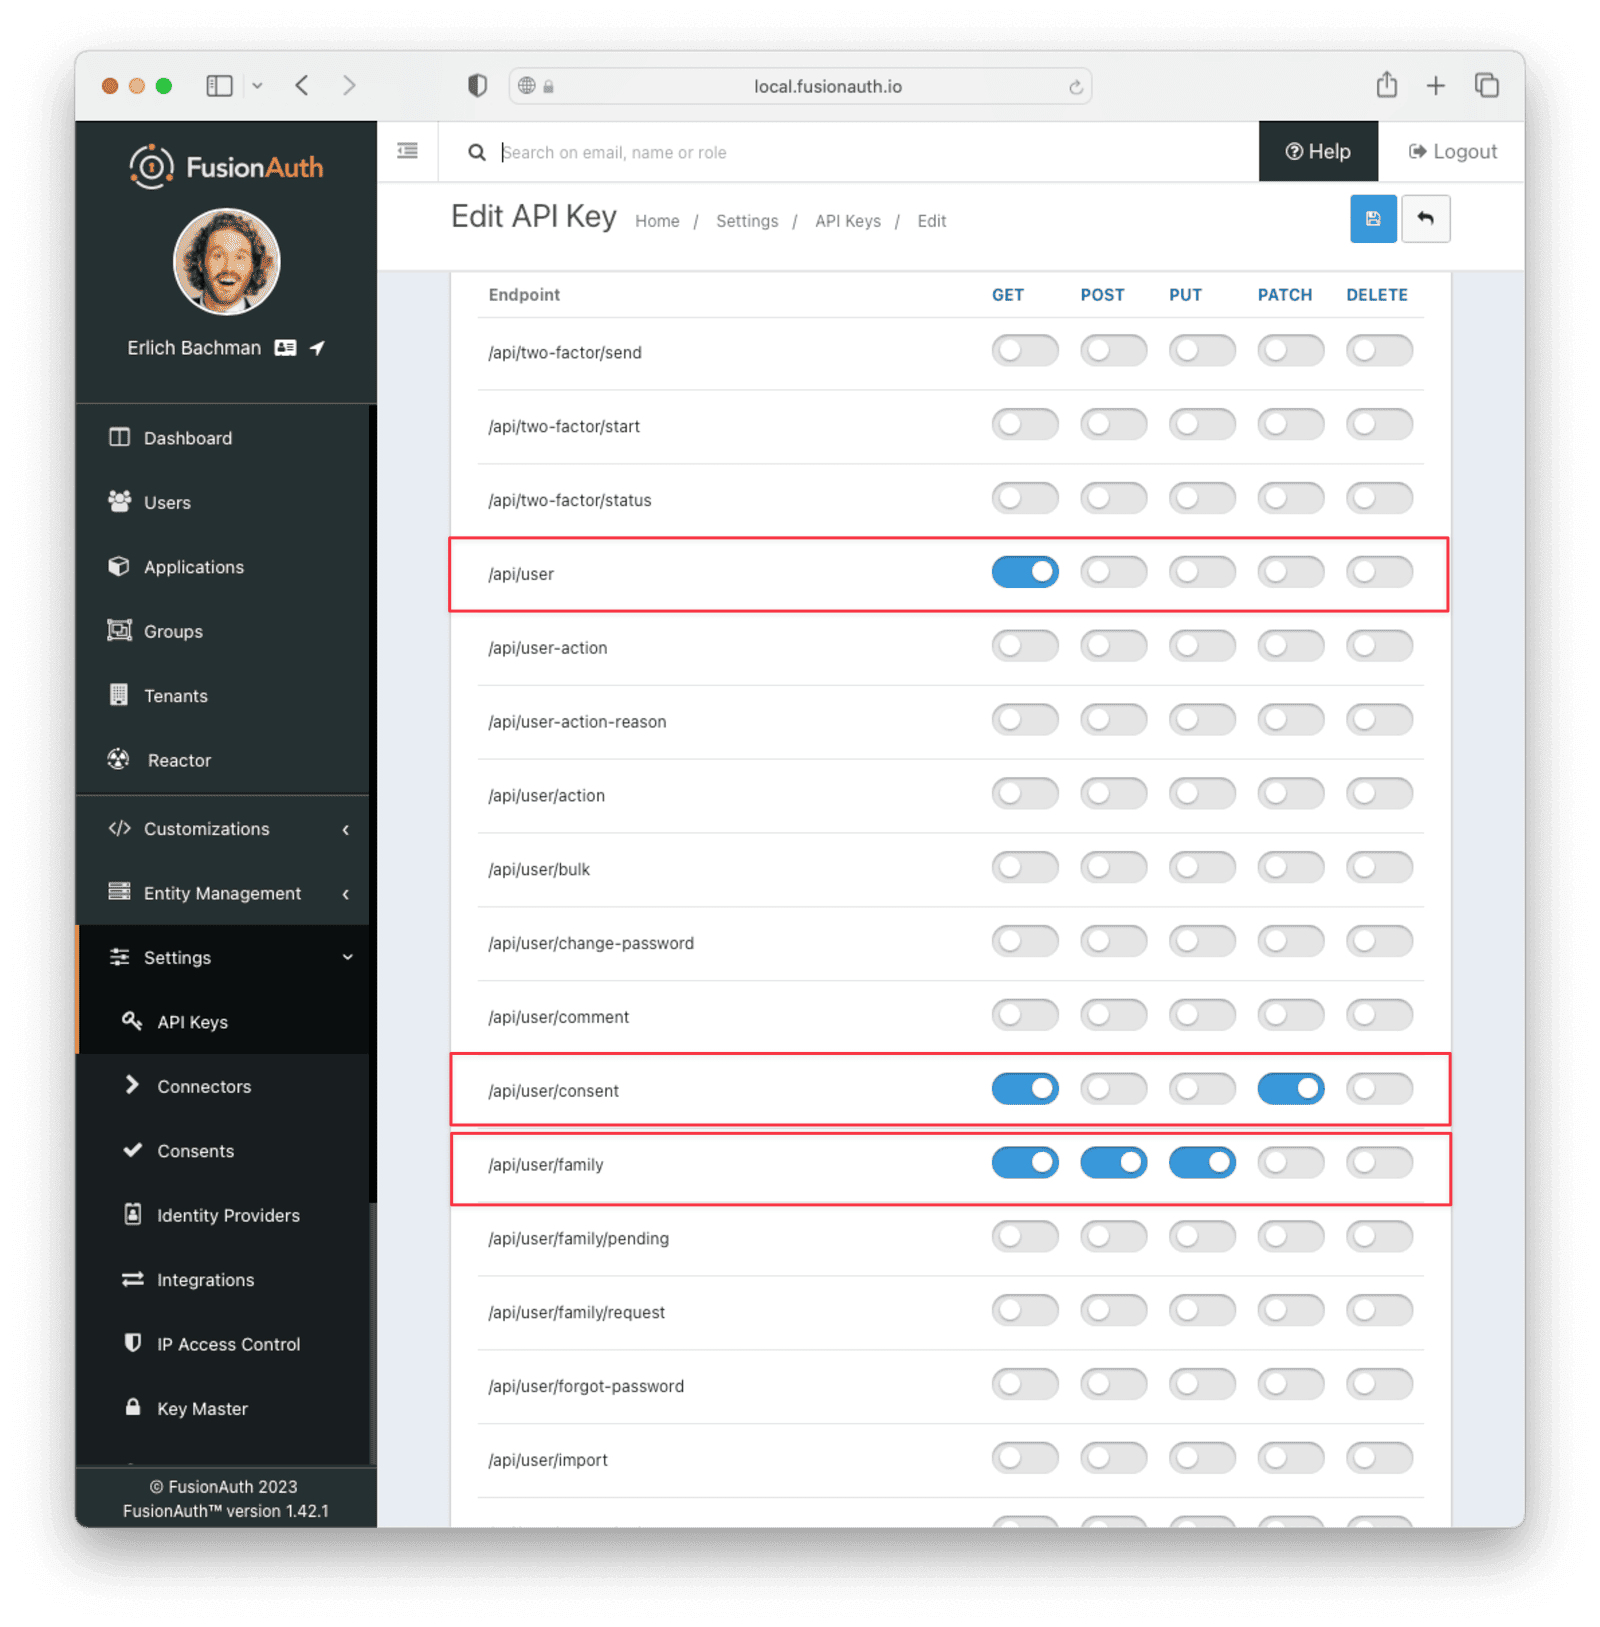
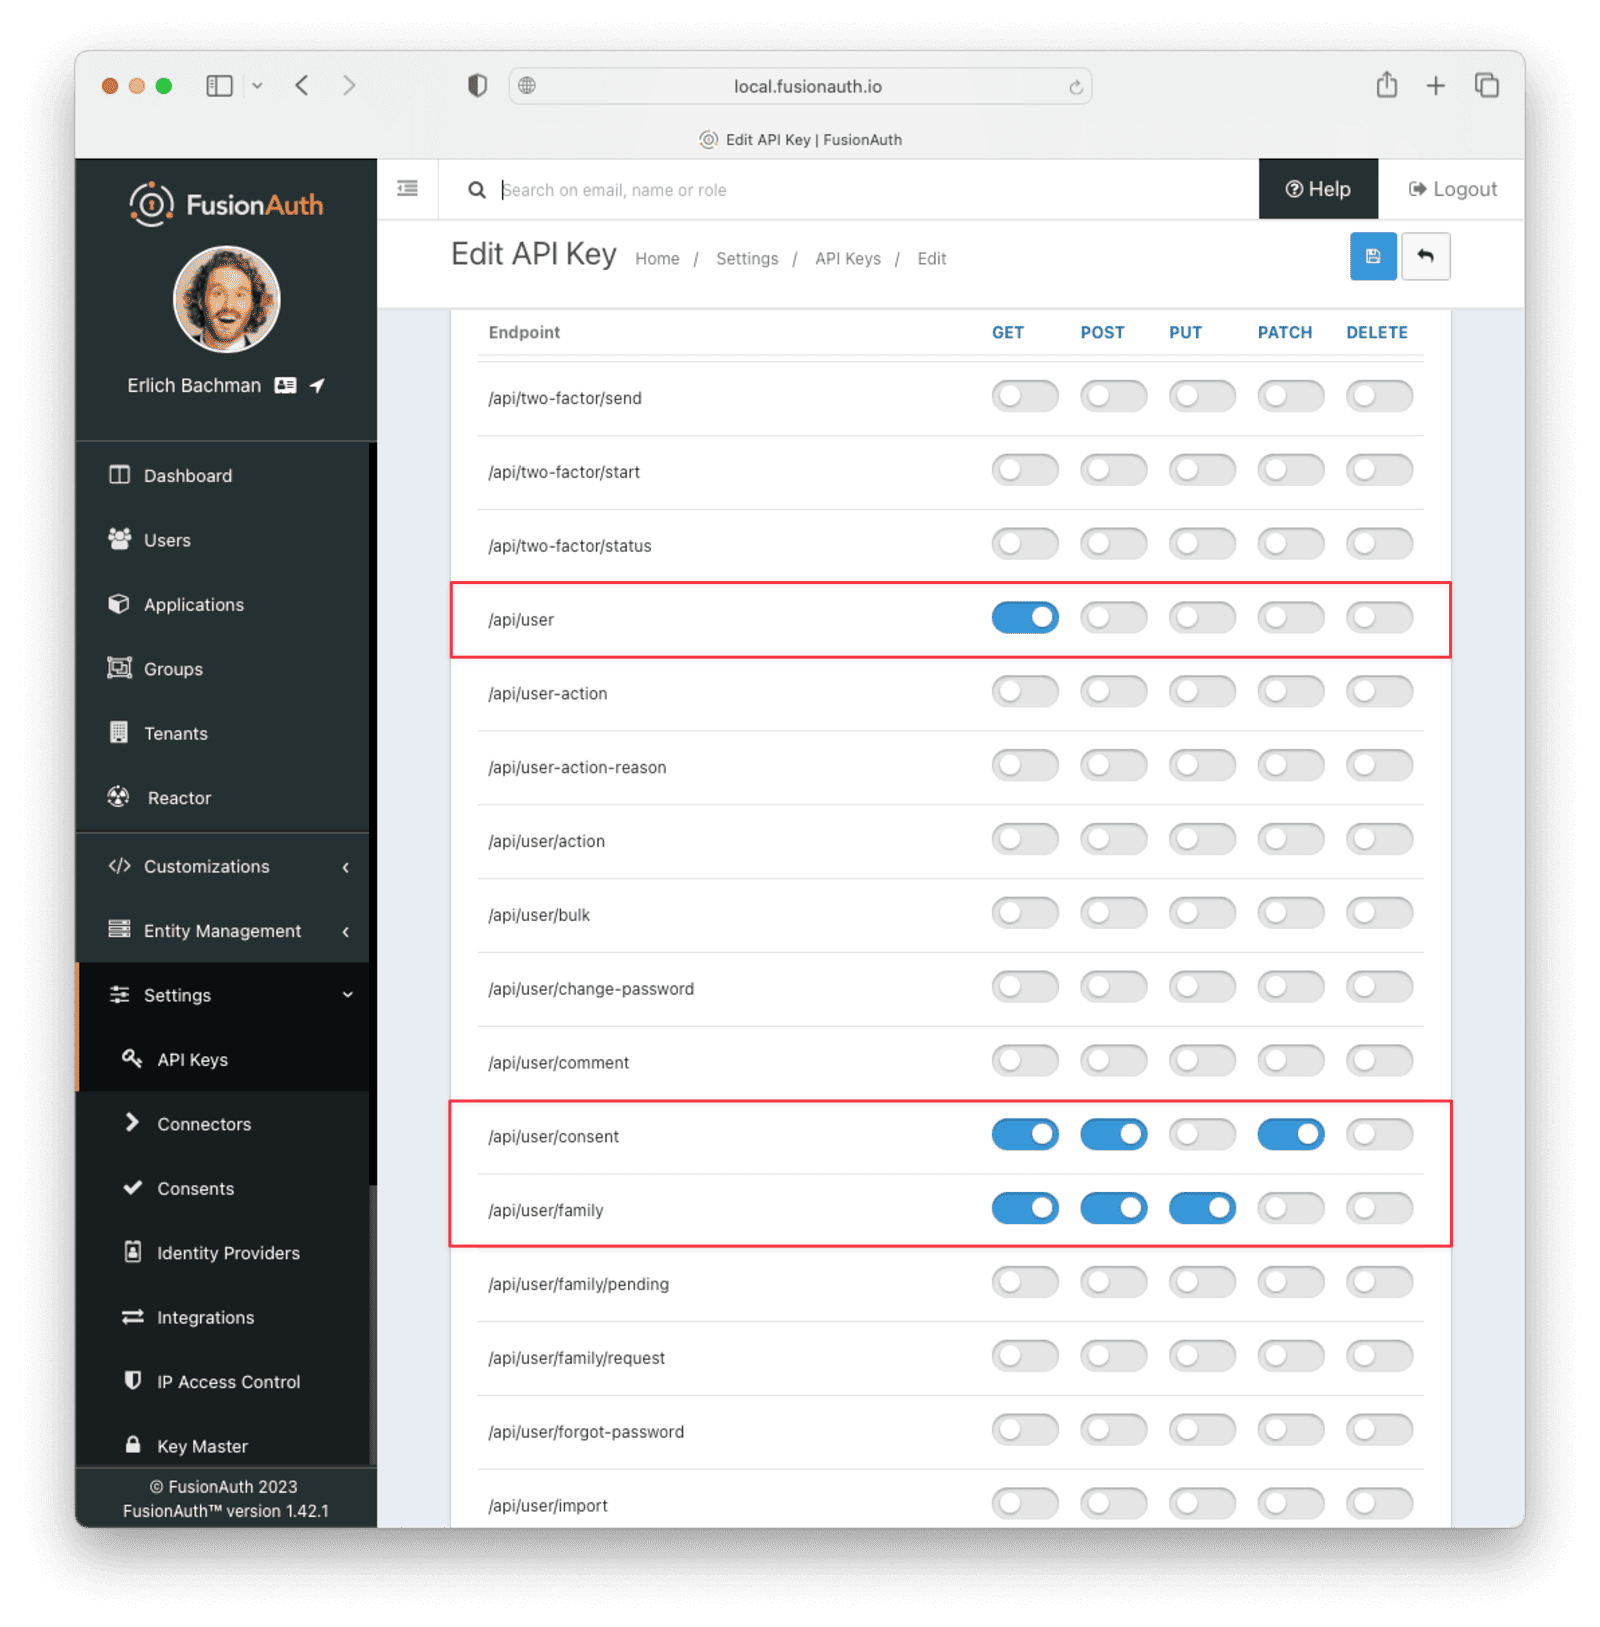
feedback updates

Changed region(s): [[0.0312, 0.0307, 0.9375, 0.9527], [0.2188, 0.2459, 0.25, 0.2766]]

diff --git a/site/_posts/2023-02-28-family-api.md b/site/_posts/2023-02-28-family-api.md
@@ -14,15 +14,15 @@ In this tutorial, you'll build a basic Node.js + [Express](http://expressjs.com)
 
 The application itself is very simple: It will let a user sign up via FusionAuth, allow them to grant consent for children in their family to access certain features of an application, and allow them to update those consents at any time. With these basics in place, you'll see how FusionAuth works and how it can extend the application to do whatever you need. You can also [skip ahead and view the code](https://github.com/ritza-co/fusionauth-family-api-example/tree/main/app). Note that some configuration of FusionAuth is needed, as detailed in this guide, so you will need to complete that before running the code.
 
-You can also use [these kickstart files](https://github.com/ritza-co/fusionauth-family-api-example/tree/main/kickstart) to automatically handle the configuration of FusionAuth. You can find more information regarding kickstart files [here](https://fusionauth.io/docs/v1/tech/installation-guide/docker#kickstart).
+You can also use [these kickstart files](https://github.com/ritza-co/fusionauth-family-api-example/tree/main/kickstart) to automatically handle the configuration of FusionAuth. You can find more information regarding kickstart files [here](/docs/v1/tech/installation-guide/docker#kickstart).
 
 ### An Overview of the Family and Consent APIs
 
 You will use three main FusionAuth APIs in this tutorial:
 
-- The [Family API](https://fusionauth.io/docs/v1/tech/apis/families) lets you create and manage families, and assign users to them.
-- The [Consent API](https://fusionauth.io/docs/v1/tech/apis/consents) lets you manage the types of consents available in your application.
-- The [UserConsent API](https://fusionauth.io/docs/v1/tech/apis/consents#grant-a-user-consent) lets you manage consents for a specific user.
+- The [Family API](/docs/v1/tech/apis/families) lets you create and manage families, and assign users to them.
+- The [Consent API](/docs/v1/tech/apis/consents) lets you manage the types of consents available in your application.
+- The [UserConsent API](/docs/v1/tech/apis/consents#grant-a-user-consent) lets you manage consents for a specific user.
 
 Families are a way to group users into a family and assign the family members roles within that family. There are three main roles: Adult, Teen, and Child.
 
@@ -69,7 +69,7 @@ You can skip step **#3** in this tutorial, but sending emails (to verify email a
 Click "Setup" under "Missing Application" and call your new app "Family-Api-App", or another name of your choice. Click on the "OAuth" tab. It'll get a "Client Id" and "Client Secret" automatically - save these, as you'll use them in the code. Later, you'll set up a Node.js + Express application which will run on `http://localhost:3000`, so configure the Authorized URLs accordingly. You should add:
 
 - `http://localhost:3000/oauth-redirect` to the "Authorized redirect URLs".
-- `http://localhost:3000/` to the "Authorized request origin URLs".
+- `http://localhost:3000` to the "Authorized request origin URLs".
 - `http://localhost:3000/logout` to the "Logout URL".
 
 Make sure that "PKCE" is set to `Required.` Proof Key for Code Exchange (PKCE) was originally intended for public clients like native mobile or desktop apps that couldn’t safely store a client secret. Now it is recommended even on confidential clients like web apps where the client secret is under secure control to protect against authorization code injection attacks. Your application should look like this:
@@ -84,7 +84,7 @@ Once the user has logged in via the FusionAuth application, you can retrieve the
 
 Navigate to "Settings" and then "API Keys", then add a key. Add a name for the key and take note of the generated key value.
 
-Following the principle of least privilege, you can restrict the permissions for the key. For this app, you only need to enable the `GET` action for `api/user`, the `GET` and `PATCH` actions for `api/user/consent`, and the `GET`, `POST`, and `PUT` actions for `/api/user/family`. This will let the key get basic user information, grant or revoke consents to view the app, create a family, and assign users to it. If you leave the key with no explicitly assigned permissions, it will be an all-powerful key that can control all aspects of your FusionAuth app. You should avoid doing this!
+Following the principle of least privilege, you can restrict the permissions for the key. For this app, you only need to enable the `GET` action for `api/user`, the `GET`, `POST` and `PATCH` actions for `api/user/consent`, and the `GET`, `POST`, and `PUT` actions for `/api/user/family`. This will let the key get basic user information, grant or revoke consents to view the app, create a family, and assign users to it. If you leave the key with no explicitly assigned permissions, it will be an all-powerful key that can control all aspects of your FusionAuth app. You should avoid doing this!
 
 {% include _image.liquid src="/assets/img/blogs/family-api/family-api-api-key.png" alt="Limiting the scope of the created API key." class="img-fluid" figure=false %}
 
@@ -92,7 +92,7 @@ Following the principle of least privilege, you can restrict the permissions for
 
 The application will have two users: a parent user and a child user. The parent user will be able to grant consent for the child user to access certain features of the application.
 
-Let's create the parent user first. Navigate to "Users" and click the "Add" button. Select a "Tenant" and supply an email address. Toggle the "Send email to set up password" switch to directly supply a password. For display purposes, provide a "First Name". A user must be at least 21 years old to be designated as a family owner, so supply an appropriate "Birthdate" as well. This requirement can be modified in the [tenant configuration](https://fusionauth.io/docs/v1/tech/core-concepts/tenants#family).
+Let's create the parent user first. Navigate to "Users" and click the "Add" button. Supply an email address. Toggle the "Send email to set up password" switch to directly supply a password. For display purposes, provide a "First Name". A user must be at least 21 years old to be designated as a family owner, so supply an appropriate "Birthdate" as well. This requirement can be modified in the [tenant configuration](/docs/v1/tech/core-concepts/tenants#family).
 
 {% include _image.liquid src="/assets/img/blogs/family-api/family-api-parent-user.png" alt="Creating the parent user." class="img-fluid" figure=false %}
 
@@ -106,7 +106,7 @@ Then, register both users to the application. Click the "Manage" button for each
 
 ## Adding users to a family
 
-Now that you've created your two users and registered them to your application, you can assign both users to their appropriate family roles via the [Family API](https://fusionauth.io/docs/v1/tech/apis/families). Execute the following command in your terminal.
+Now that you've created your two users and registered them to your application, you can assign both users to their appropriate family roles via the [Family API](/docs/v1/tech/apis/families). Execute the following command in your terminal.
 
 ```sh
 curl -X POST <YOUR_FUSIONAUTH_URL>/api/user/family \
@@ -142,7 +142,7 @@ curl -X PUT <YOUR_FUSIONAUTH_URL>/api/user/family/<YOUR_FAMILY_ID> \
 
 ## Creating a consent
 
-You are almost ready to build your custom application and leverage your FusionAuth configuration to enable permission-based access to your site. Now, you just have to add a [consent](https://fusionauth.io/docs/v1/tech/apis/consents#overview), which will enable the parent user to grant or revoke access to the child user.
+You are almost ready to build your custom application and leverage your FusionAuth configuration to enable permission-based access to your site. Now, you just have to add a [consent](/docs/v1/tech/apis/consents#overview), which will enable the parent user to grant or revoke access to the child user.
 
 Navigate to "Settings" then "Consents" and click the "Add" button. Supply a "Name" for the consent. By default, the minimum age of self-consent is `13`, meaning any user aged `13` or older can grant themselves the consent without needing permission from an adult user. You can modify this value if you wish. For the purposes of this guide, just make sure this number is higher than the age of your child user. If you did not supply a "Birthdate" for your child user, you can leave this value as-is, since a blank "Birthdate" will cause a user's age to be calculated as `-1`.
 
@@ -165,7 +165,7 @@ Here are the commands to perform the above steps:
 npx express-generator --view=pug fusionauth-example-family
 cd fusionauth-example-family
 npm install
-npm install @fusionauth/typescript-client pkce-challenge express-session
+npm install @fusionauth/typescript-client pkce-challenge@3 express-session
 npm start
 ```
 
@@ -254,7 +254,7 @@ const client = new FusionAuthClient('<YOUR_API_KEY>', '<YOUR_FUSIONAUTH_URL>');
 const consentId = '<YOUR_CONSENT_ID>';
 ```
 
-The `pkceChallenge` package enables your application to use a Proof Key for Code Exchange (PKCE). PKCE is a security layer that sits on top of the Authorization Code grant to ensure that authorization codes can’t be stolen or reused. Here, you are also importing the [FusionAuth Typescript client](https://fusionauth.io/docs/v1/tech/client-libraries/typescript), as well as several parameters that allow your application to communicate with your FusionAuth configuration. Find the values for `<YOUR_CLIENT_ID>` and `<YOUR_CLIENT_SECRET>` in FusionAuth under "Applications" then "Your Application". In a production environment, you should use environment variables here to prevent your client secret from leaking. Find `<YOUR_API_KEY>` under "Settings" then "API Keys" and `<YOUR_CONSENT_ID>` under "Settings" then "Consents".
+The `pkceChallenge` package enables your application to use a Proof Key for Code Exchange (PKCE). PKCE is a security layer that sits on top of the Authorization Code grant to ensure that authorization codes can’t be stolen or reused. Here, you are also importing the [FusionAuth Typescript client](/docs/v1/tech/client-libraries/typescript), as well as several parameters that allow your application to communicate with your FusionAuth configuration. Find the values for `<YOUR_CLIENT_ID>` and `<YOUR_CLIENT_SECRET>` in FusionAuth under "Applications" then "Your Application". In a production environment, you should use environment variables here to prevent your client secret from leaking. Find `<YOUR_API_KEY>` under "Settings" then "API Keys" and `<YOUR_CONSENT_ID>` under "Settings" then "Consents".
 
 ## Adding the OAuth Callback Route
 
@@ -339,9 +339,9 @@ router.get('/', async function (req, res, next) {
 });
 ```
 
-The `familyMembers` array is a filtered version of the entire family that only contains children and the currently logged-in adult. In other words, any other adults from the family are removed, as you won't need to set consents for them, but you do want to keep the family role information for the currently logged-in adult. Note that, when building the `familyMembers` array, the filter criterion is `!== 'Adult'`, not `=== 'Child'` as you might expect. This is because FusionAuth also allows users to be designated as [`Teen`](https://fusionauth.io/docs/v1/tech/apis/families#add-a-user-to-a-family) to allow for further granularity when assigning roles in a family.
+The `familyMembers` array is a filtered version of the entire family that only contains children and the currently logged-in adult. In other words, any other adults from the family are removed, as you won't need to set consents for them, but you do want to keep the family role information for the currently logged-in adult. Note that, when building the `familyMembers` array, the filter criterion is `!== 'Adult'`, not `=== 'Child'` as you might expect. This is because FusionAuth also allows users to be designated as [`Teen`](/docs/v1/tech/apis/families#add-a-user-to-a-family) to allow for further granularity when assigning roles in a family.
 
-The above code makes use of several named functions, which you now have to implement. The first function to implement is `getUserProfiles()`, which gathers all user profiles in the family. This is needed because the [Family API call](https://fusionauth.io/docs/v1/tech/apis/families#retrieve-a-family) only returns a subset of each family member's information. You need to get members' usernames or emails too, which are available through the `client.retrieveUser` function.
+The above code makes use of several named functions, which you now have to implement. The first function to implement is `getUserProfiles()`, which gathers all user profiles in the family. This is needed because the [Family API call](/docs/v1/tech/apis/families#retrieve-a-family) only returns a subset of each family member's information. You need to get members' usernames or emails too, which are available through the `client.retrieveUser` function.
 
 ```js
 async function getUserProfiles(familyUsers) {
@@ -420,10 +420,10 @@ router.post('/change-consent-status', async function (req, res, next) {
     if (response.response.families && response.response.families.length >= 1) {
       let self = response.response.families[0].members.filter(elem => elem.userId === req.session.user.id)[0];
       if (self.role !== 'Adult') {
-        res.send(403, 'Only Adult users can change consents');
+        res.status(403).send('Only Adult users can change consents');
       }
       if (response.response.families[0].members.filter(elem => elem.userId === req.body.userId).length < 1) {
-        res.send(403, 'You cannot access families you are not part of');
+        res.status(403).send('You cannot access families you are not part of');
       }
     }
 
